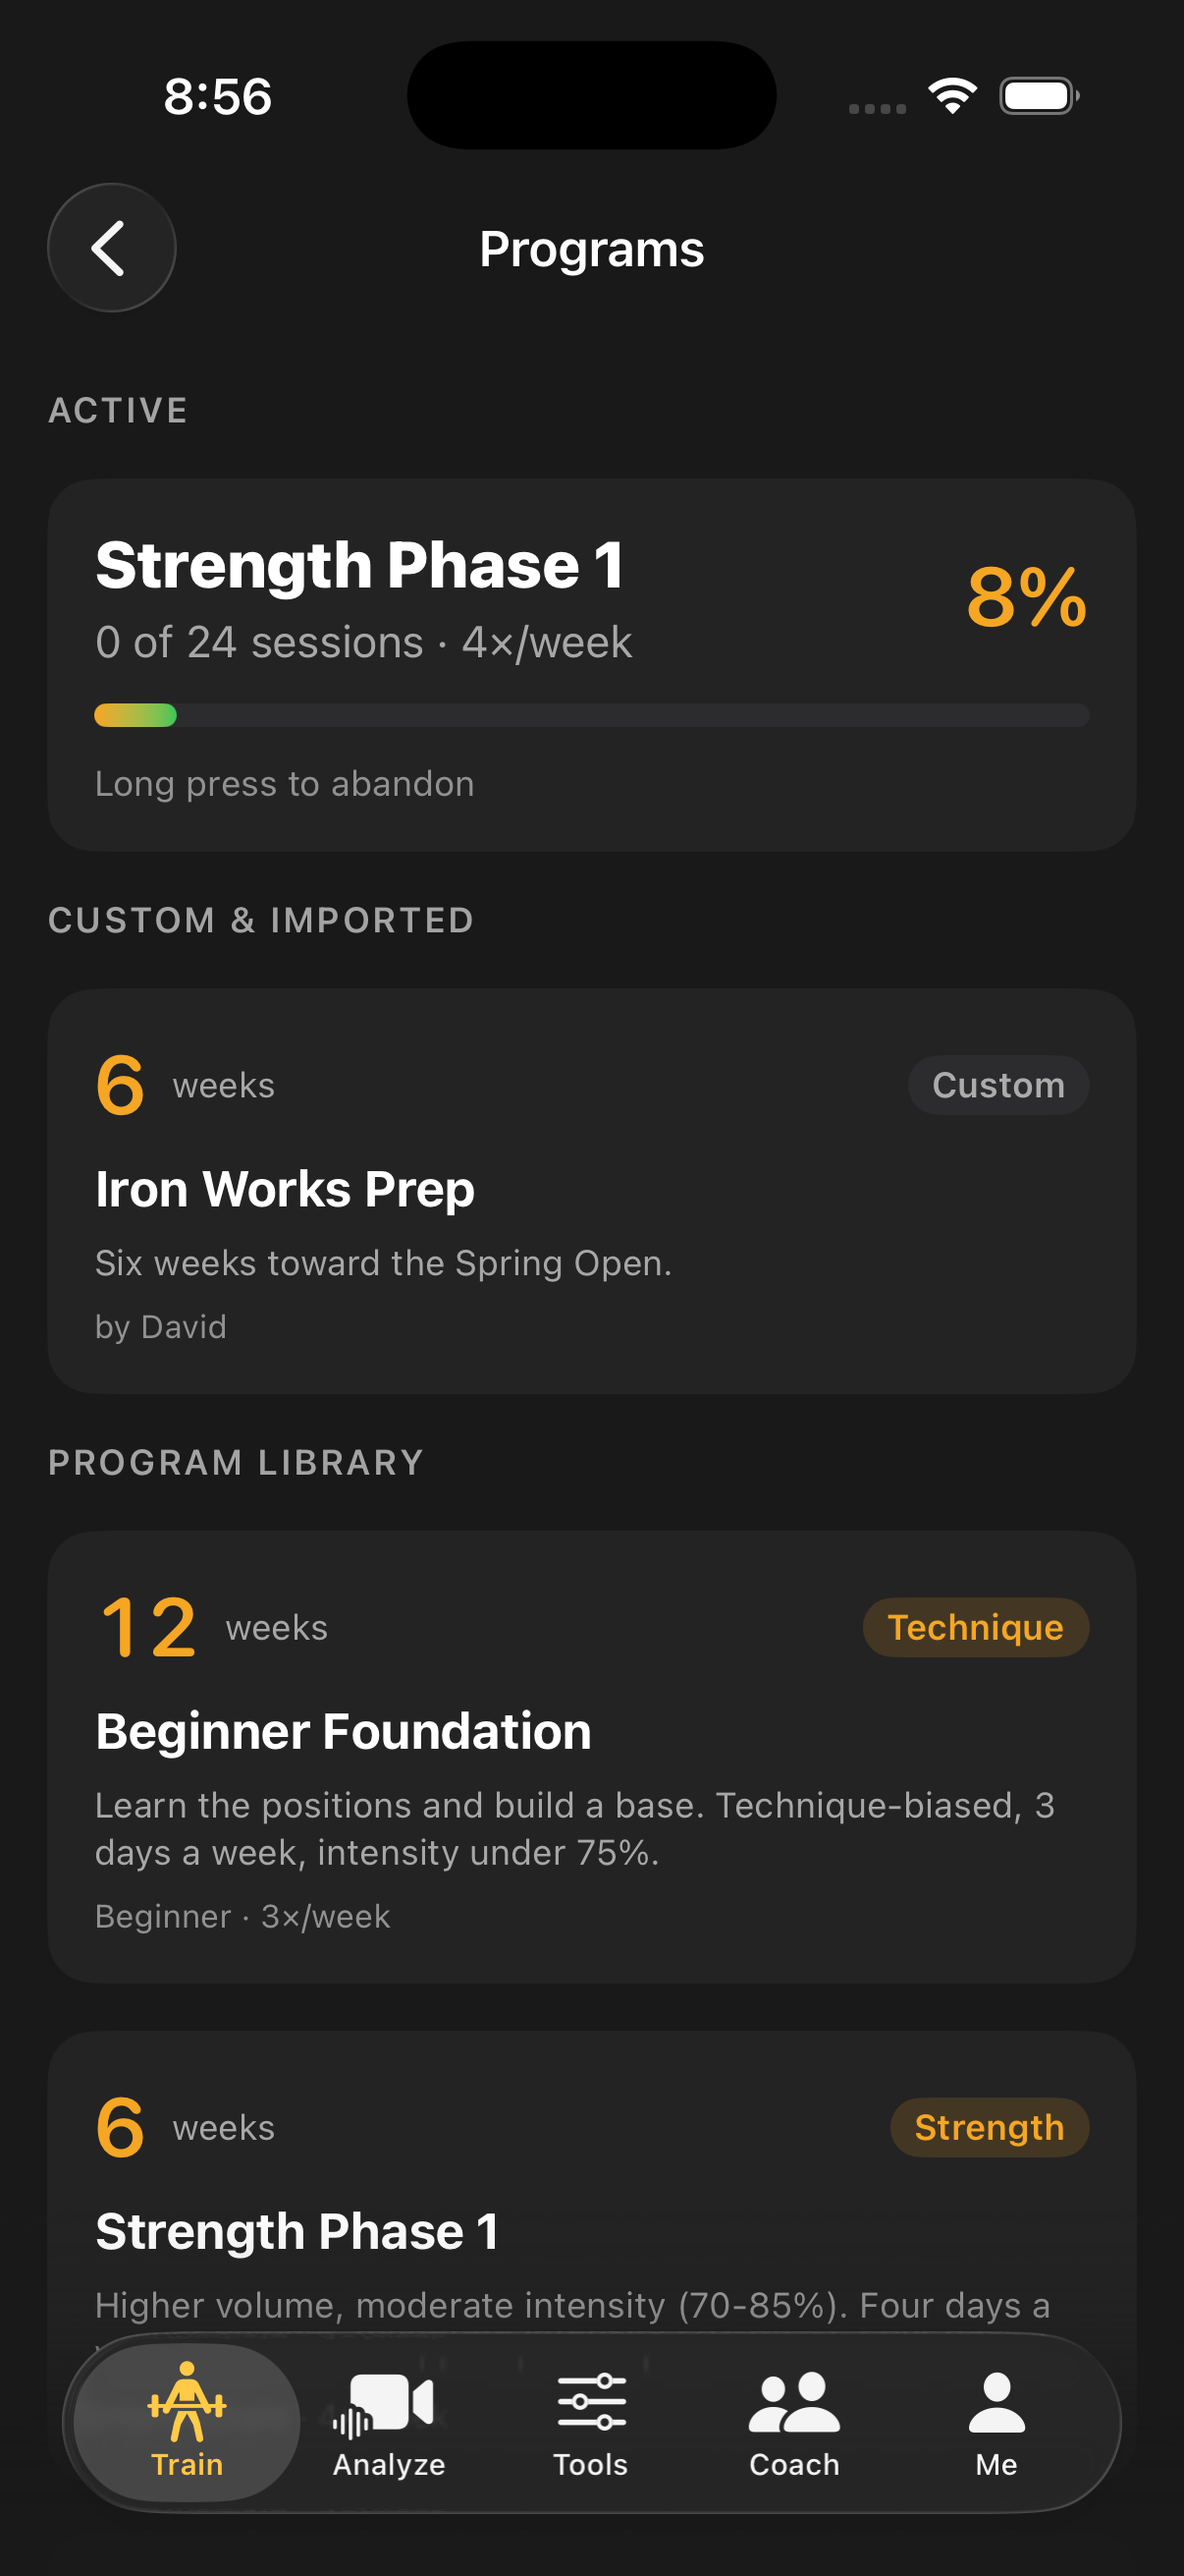
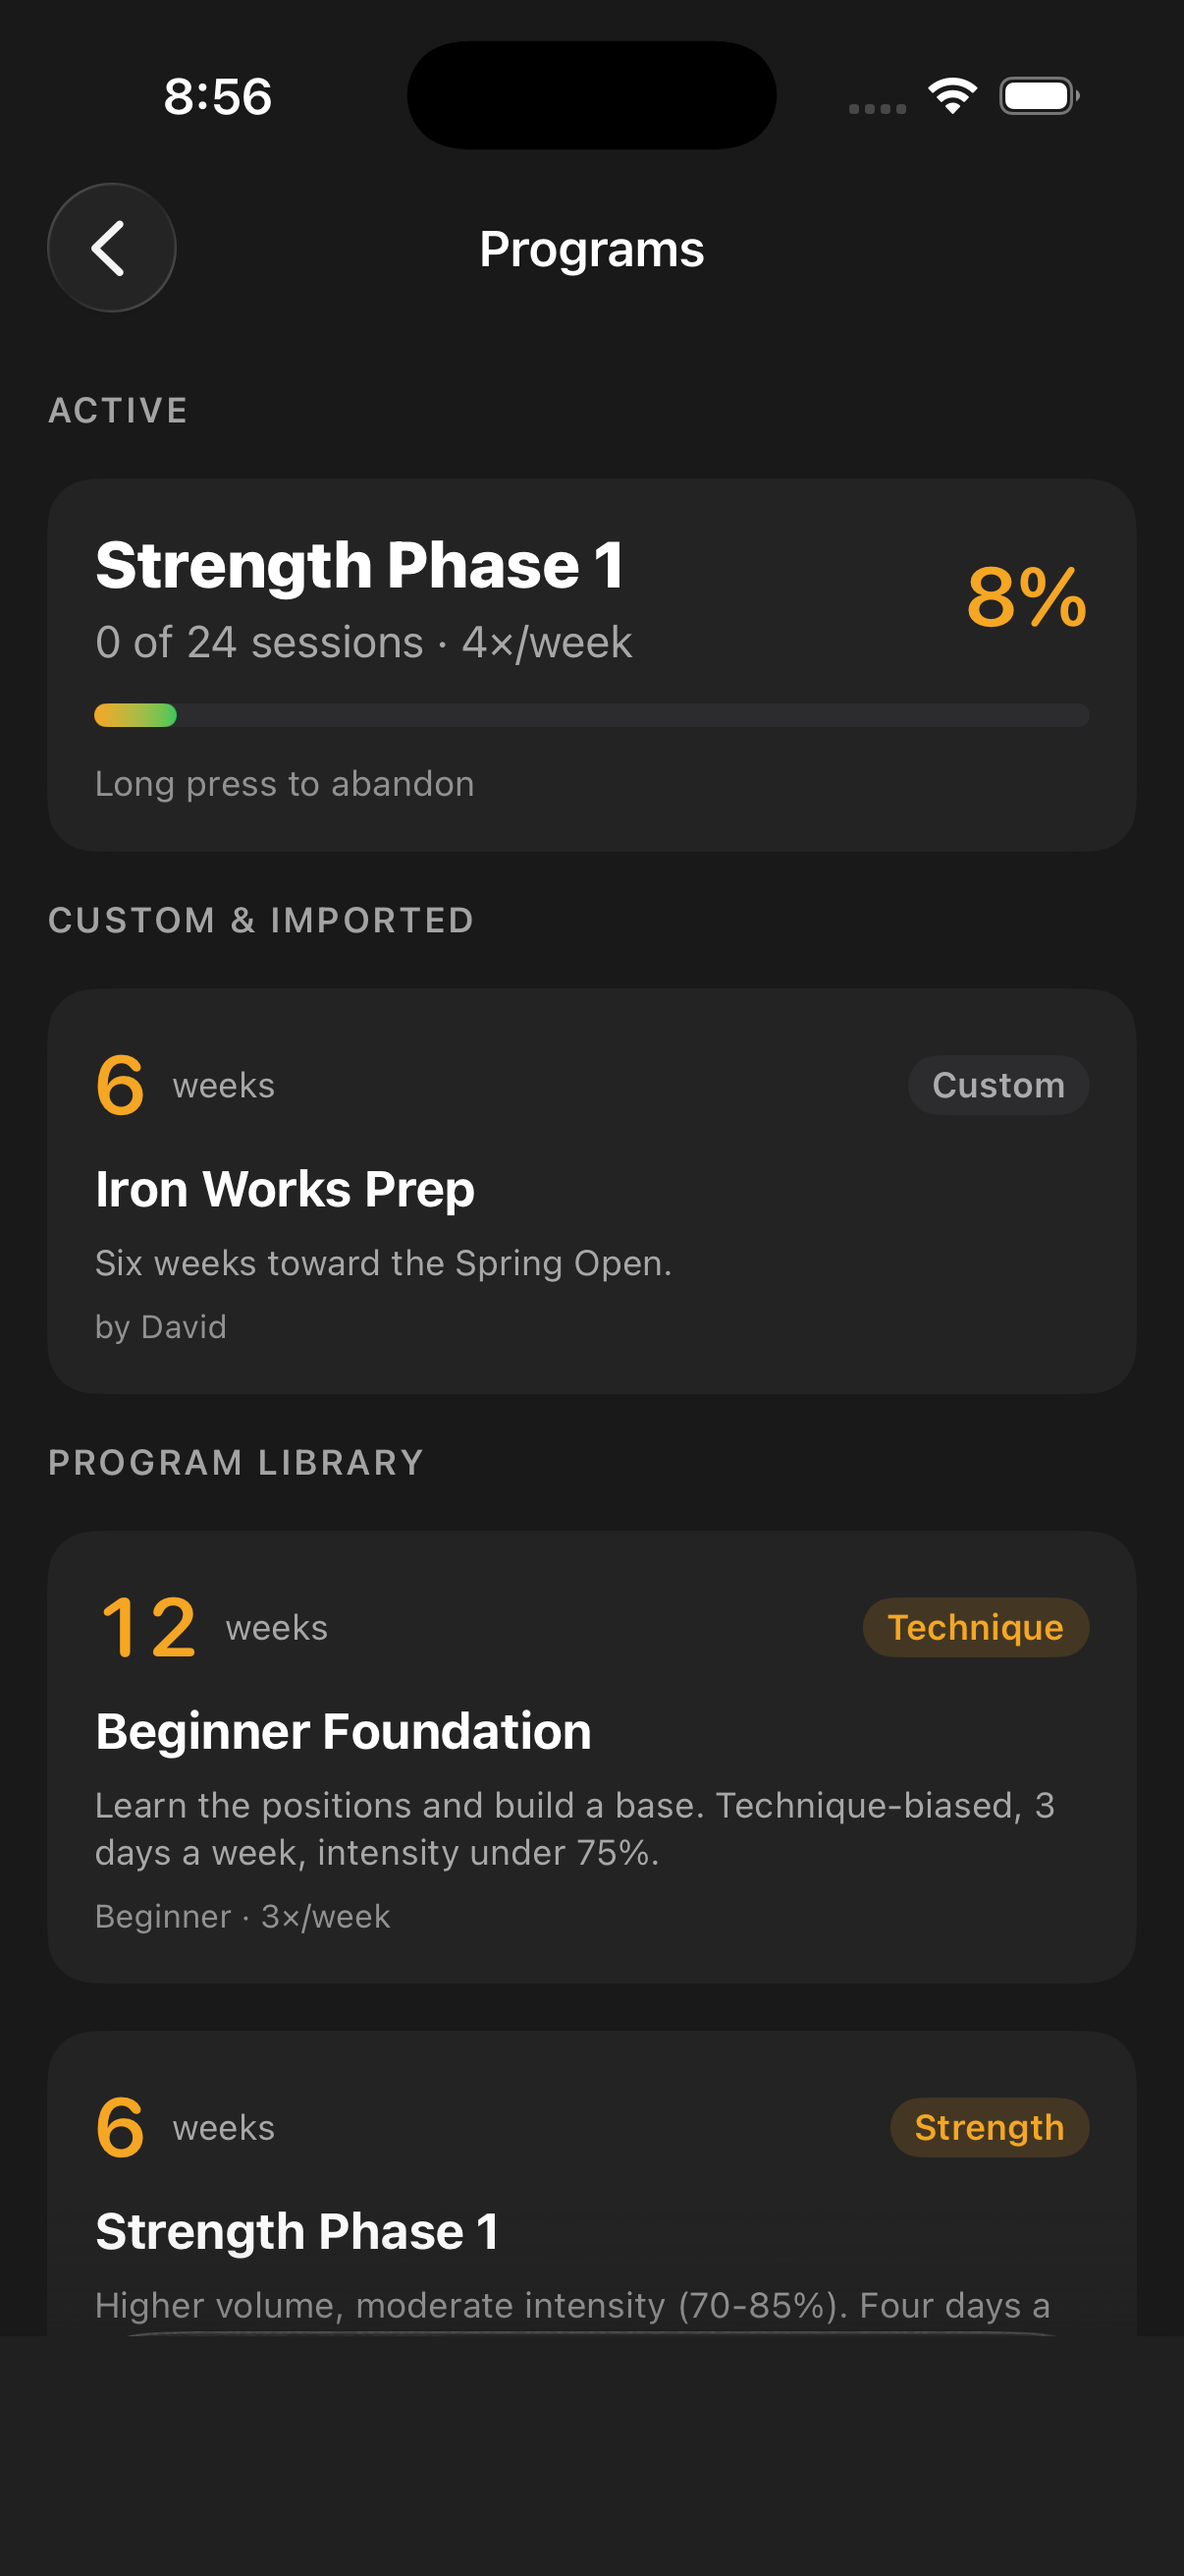
Fix hero headline below the fold, remove unreleased Coach tab, fix Explore tab image
Hero's align-items: center vertically centered the ~380px text column
against the ~600px phone-pair column, pushing the headline down enough
to clear the fold on wide-but-short viewports. Pins both columns to
the top instead.

Three screenshots showed the app's bottom tab bar with a Coach tab,
a feature that isn't shipping until the next app version. Blacked out
the tab bar strip in each (measured and verified pixel-by-pixel so no
real content got clipped) and regenerated their WebP variants.

The Explore section's phone screenshot rendered after the entire
10-item tab list on mobile, so tapping a tab near the top changed an
image the visitor couldn't see without scrolling past the rest of the
list. Fixed the position with a mobile-only order override.

While verifying that fix, found the image swap didn't actually work at
all, in any viewport: AnimatePresence's exit-then-enter crossfade never
completed, so the DOM stayed frozen on whichever screenshot loaded
first even though React had already re-rendered with the right one.
Replaced it with a plain keyed swap.

diff --git a/site/src/sections/Explore.jsx b/site/src/sections/Explore.jsx
@@ -1,5 +1,5 @@
 import React from 'react';
-import { motion, AnimatePresence } from 'motion/react';
+import { motion } from 'motion/react';
 import { siteWrap, SiteHead, Shot } from './Chrome';
 import { asset } from '../lib/asset';
 import { DURATION, EASE } from '../lib/motion';
@@ -127,17 +127,13 @@ export function Explore() {
             id="explore-panel"
             aria-labelledby={`explore-tab-${current.k}`}
           >
-            <AnimatePresence mode="wait">
-              <motion.div
-                key={current.k}
-                initial={{ opacity: 0 }}
-                animate={{ opacity: 1 }}
-                exit={{ opacity: 0 }}
-                transition={{ duration: DURATION.fade, ease: EASE.inOut }}
-              >
-                <Shot src={asset(current.src)} alt={current.label} width={260} />
-              </motion.div>
-            </AnimatePresence>
+            {/* Plain keyed swap, not an AnimatePresence crossfade: wrapping this
+                in <AnimatePresence mode="wait"><motion.div key={current.k}>
+                never got past the exit phase, so React had the right image
+                queued on every render but the DOM stayed frozen on whichever
+                one loaded first, no crossfade is better than a tab that looks
+                broken. */}
+            <Shot key={current.k} src={asset(current.src)} alt={current.label} width={260} />
           </div>
         </div>
       </div>

diff --git a/site/src/styles.css b/site/src/styles.css
@@ -162,7 +162,11 @@ a:hover { color: var(--amber); }
   display: grid;
   grid-template-columns: minmax(0, 1fr) minmax(0, 1.05fr);
   gap: clamp(32px, 4vw, 60px);
-  align-items: center;
+  /* start, not center: the phone pair runs ~600px tall against ~380px of
+     text, and centering the shorter column against the taller one pushed
+     the headline down by half that difference, enough to clear the fold
+     entirely on a wide-but-short window. */
+  align-items: start;
 }
 
 .hero-pair {
@@ -263,7 +267,10 @@ a:hover { color: var(--amber); }
   /* The hero splits only while both halves have room. Below this the display
      type would be setting in a ~270px measure. */
   .hero-grid { grid-template-columns: 1fr; }
-  .explore-shot-col { position: static; top: auto; }
+  /* Sticky tracking only makes sense beside a scrolling tab list; stacked,
+     the image just needs to render first so tapping a tab near the top of
+     a ten-item list doesn't require scrolling past the rest to see it change. */
+  .explore-shot-col { position: static; top: auto; order: -1; }
   .site-nav-links { display: none; }
   .site-nav-toggle { display: inline-flex; }
 }
